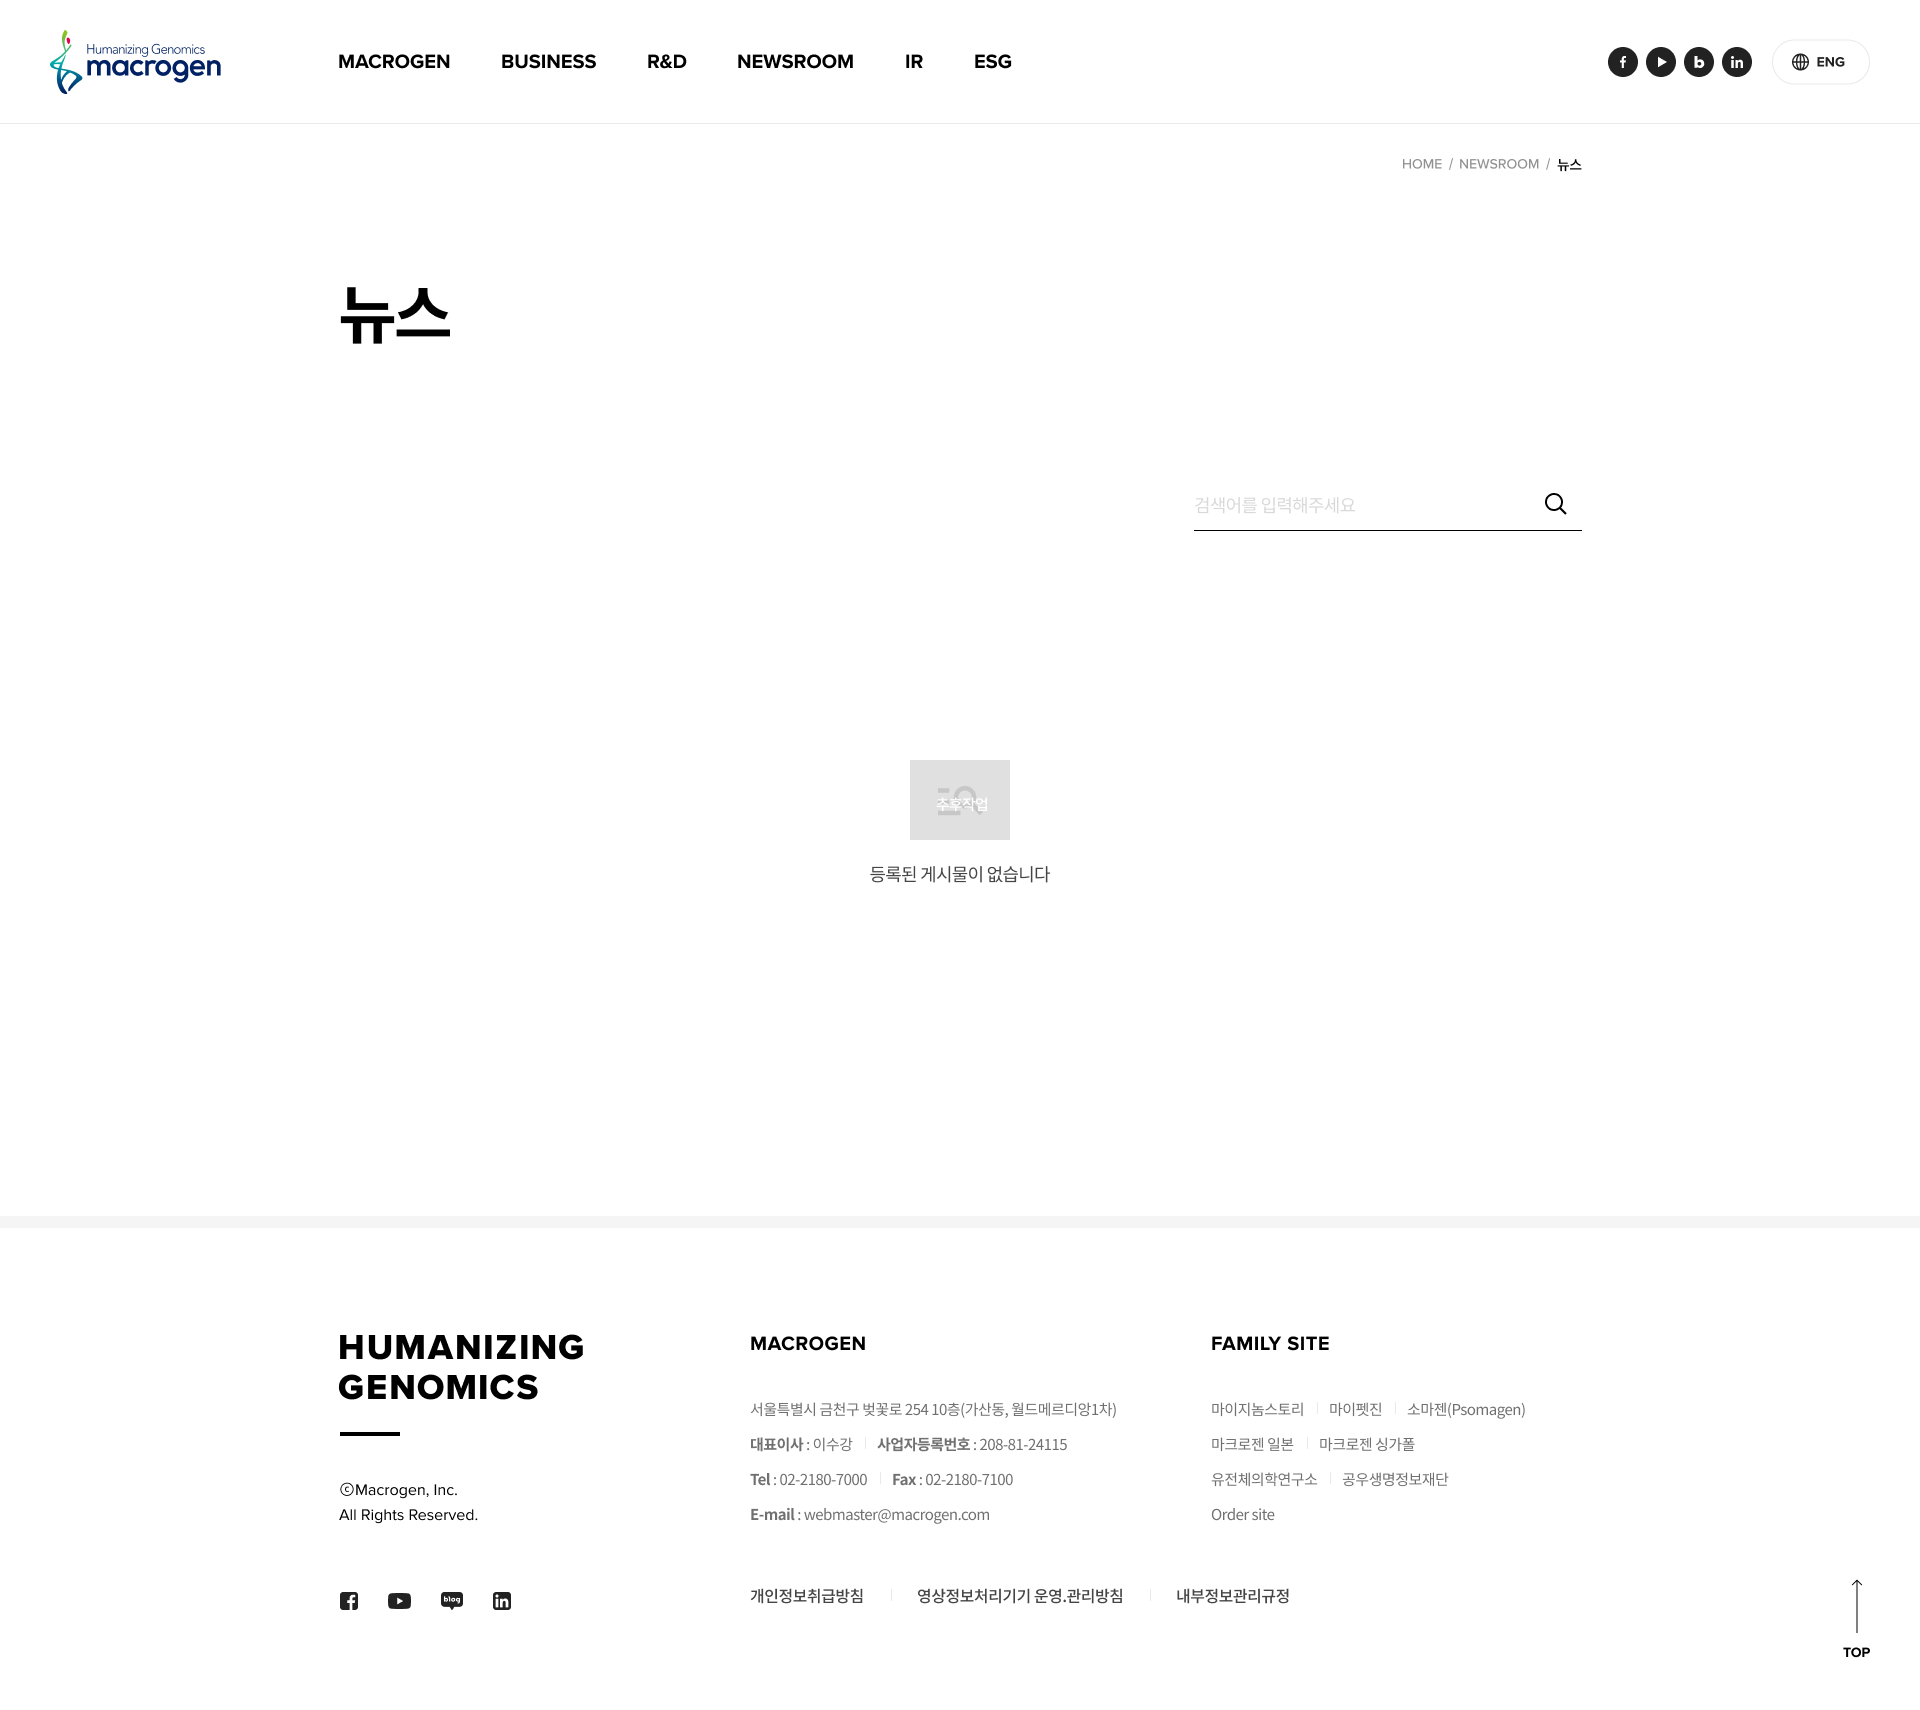
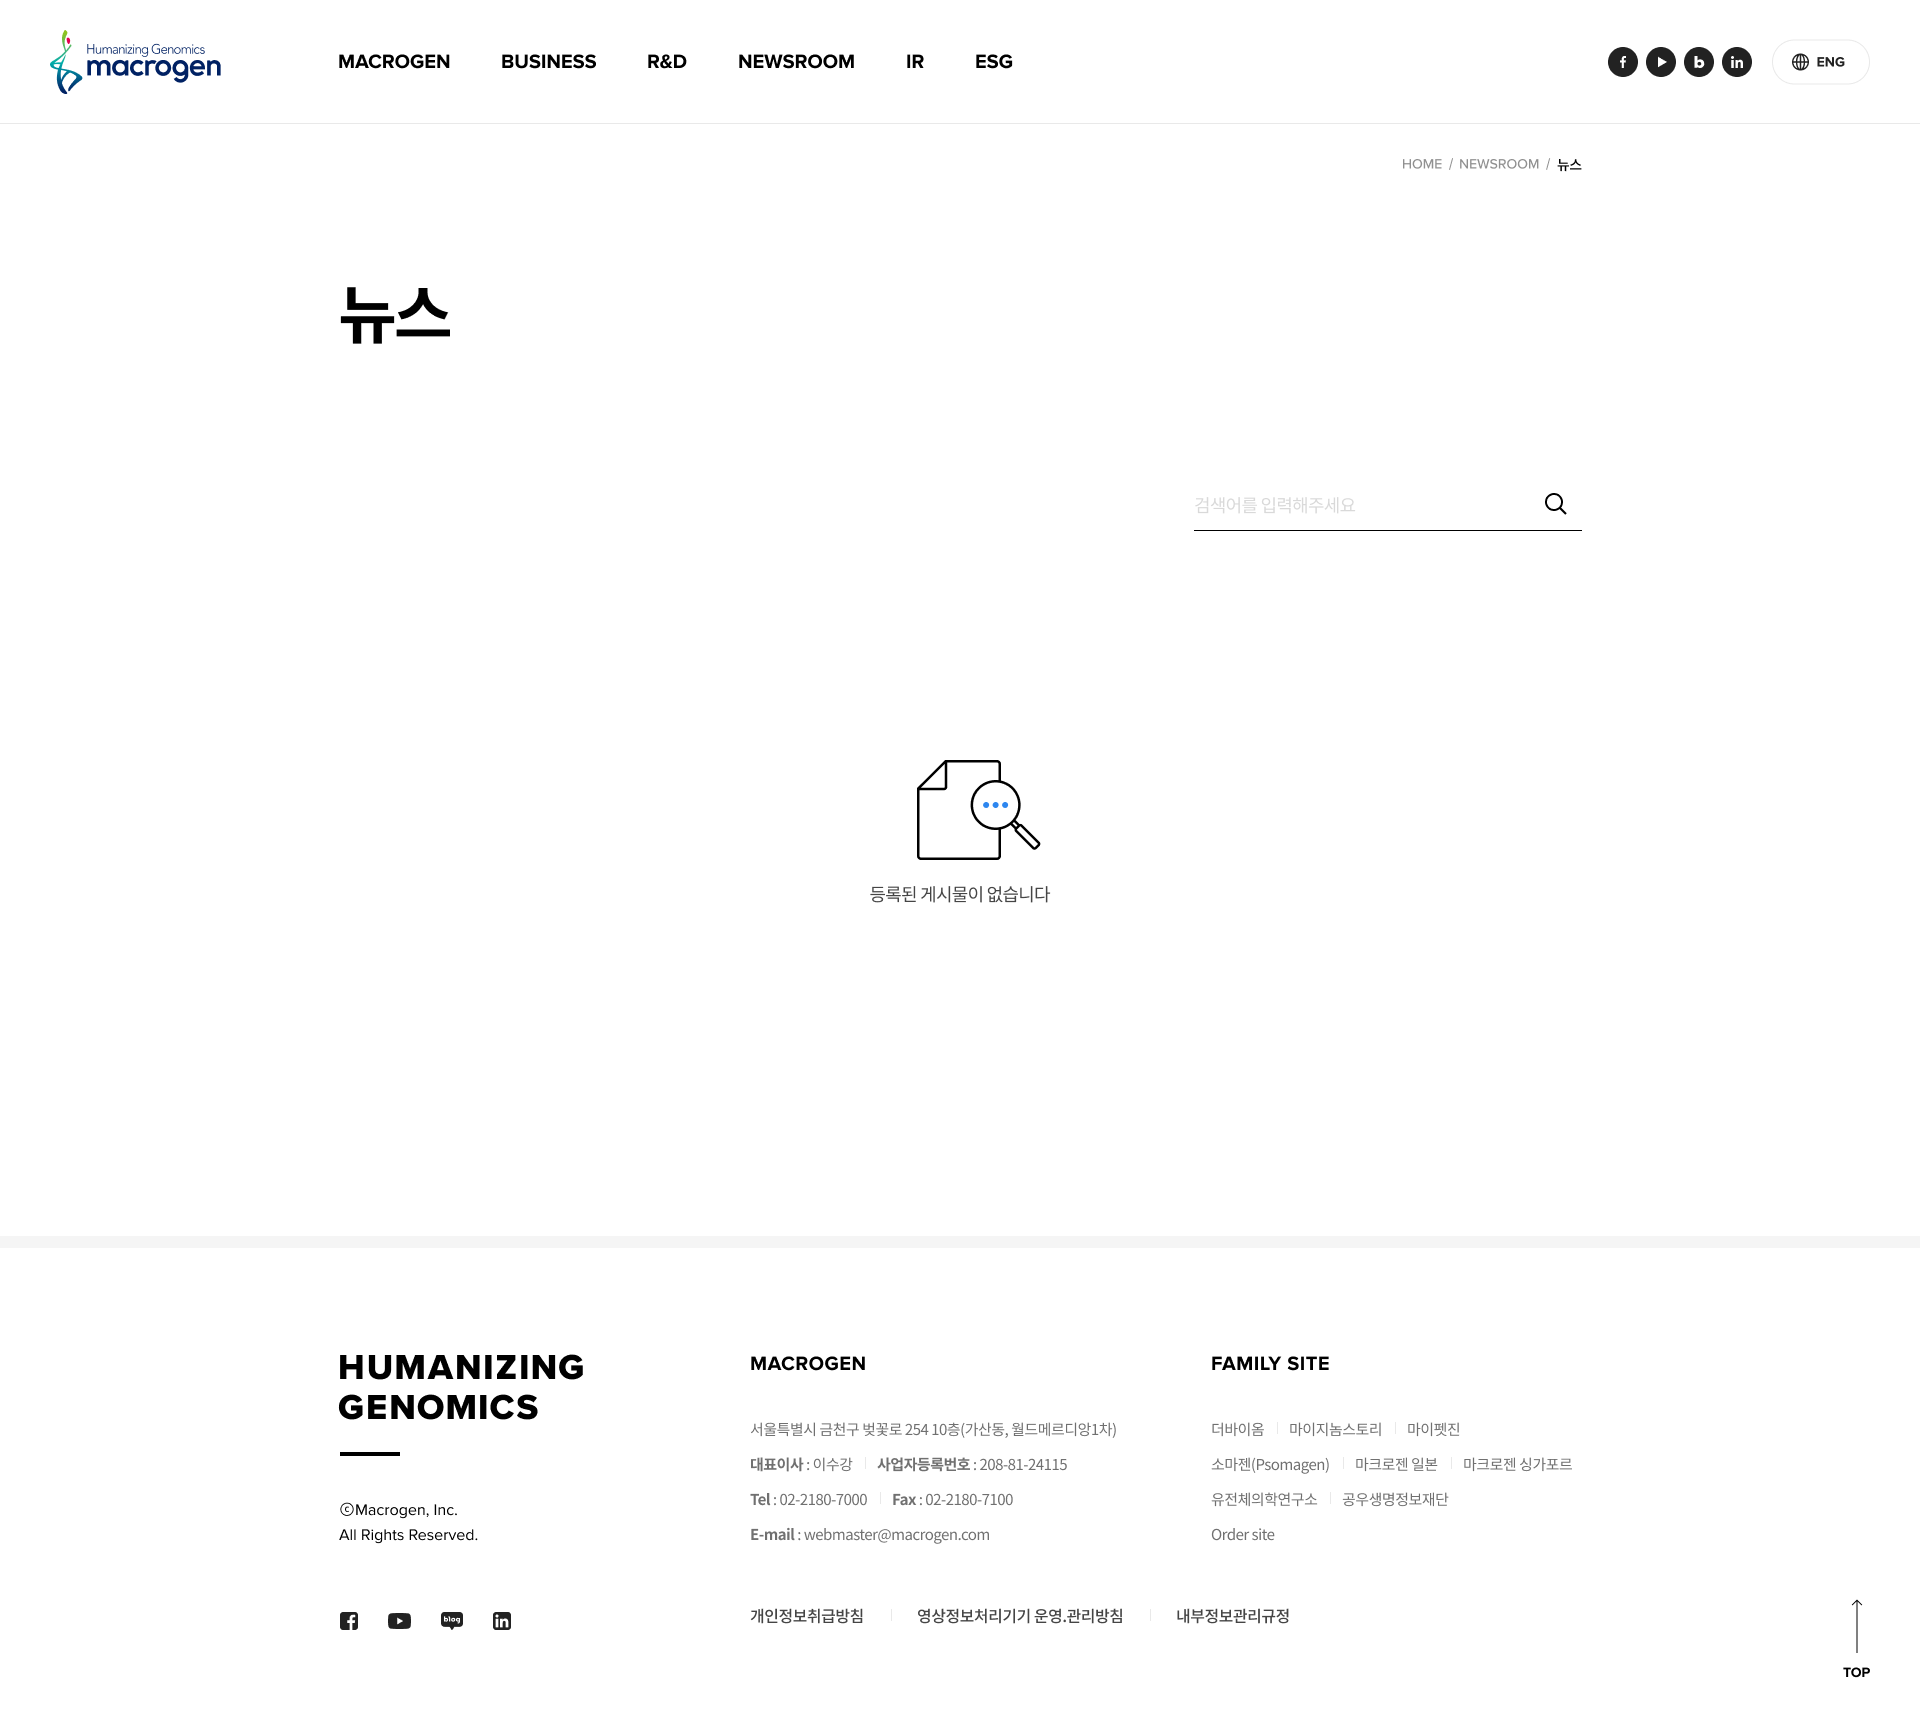
data.js 수정

diff --git a/pc-ko/pagelist/data/data.js b/pc-ko/pagelist/data/data.js
@@ -377,7 +377,7 @@ data.newsroom = {
       page: '01뉴스_01목록'
     },
     {
-      stateClass: 'working',
+      stateClass: 'complete',
       url: '01뉴스_01목록없음',
       category: 'newsroom',
       page: '01뉴스_01목록없음'
@@ -389,13 +389,13 @@ data.newsroom = {
       page: '01뉴스_02조회'
     },
     {
-      stateClass: 'working',
+      stateClass: 'complete',
       url: '02미디어라이브러리_01목록',
       category: 'newsroom',
       page: '02미디어라이브러리_01목록'
     },
     {
-      stateClass: 'working',
+      stateClass: 'complete',
       url: '02미디어라이브러리_02조회',
       category: 'newsroom',
       page: '02미디어라이브러리_02조회'
@@ -436,13 +436,13 @@ data.IR = {
       page: '02공시정보_01공고_02조회'
     },
     {
-      stateClass: 'working',
+      stateClass: 'waiting',
       url: '02공시정보_02공시정보',
       category: 'IR',
       page: '02공시정보_02공시정보'
     },
     {
-      stateClass: 'working',
+      stateClass: 'waiting',
       url: '02공시정보_03주가정보',
       category: 'IR',
       page: '02공시정보_03주가정보'
